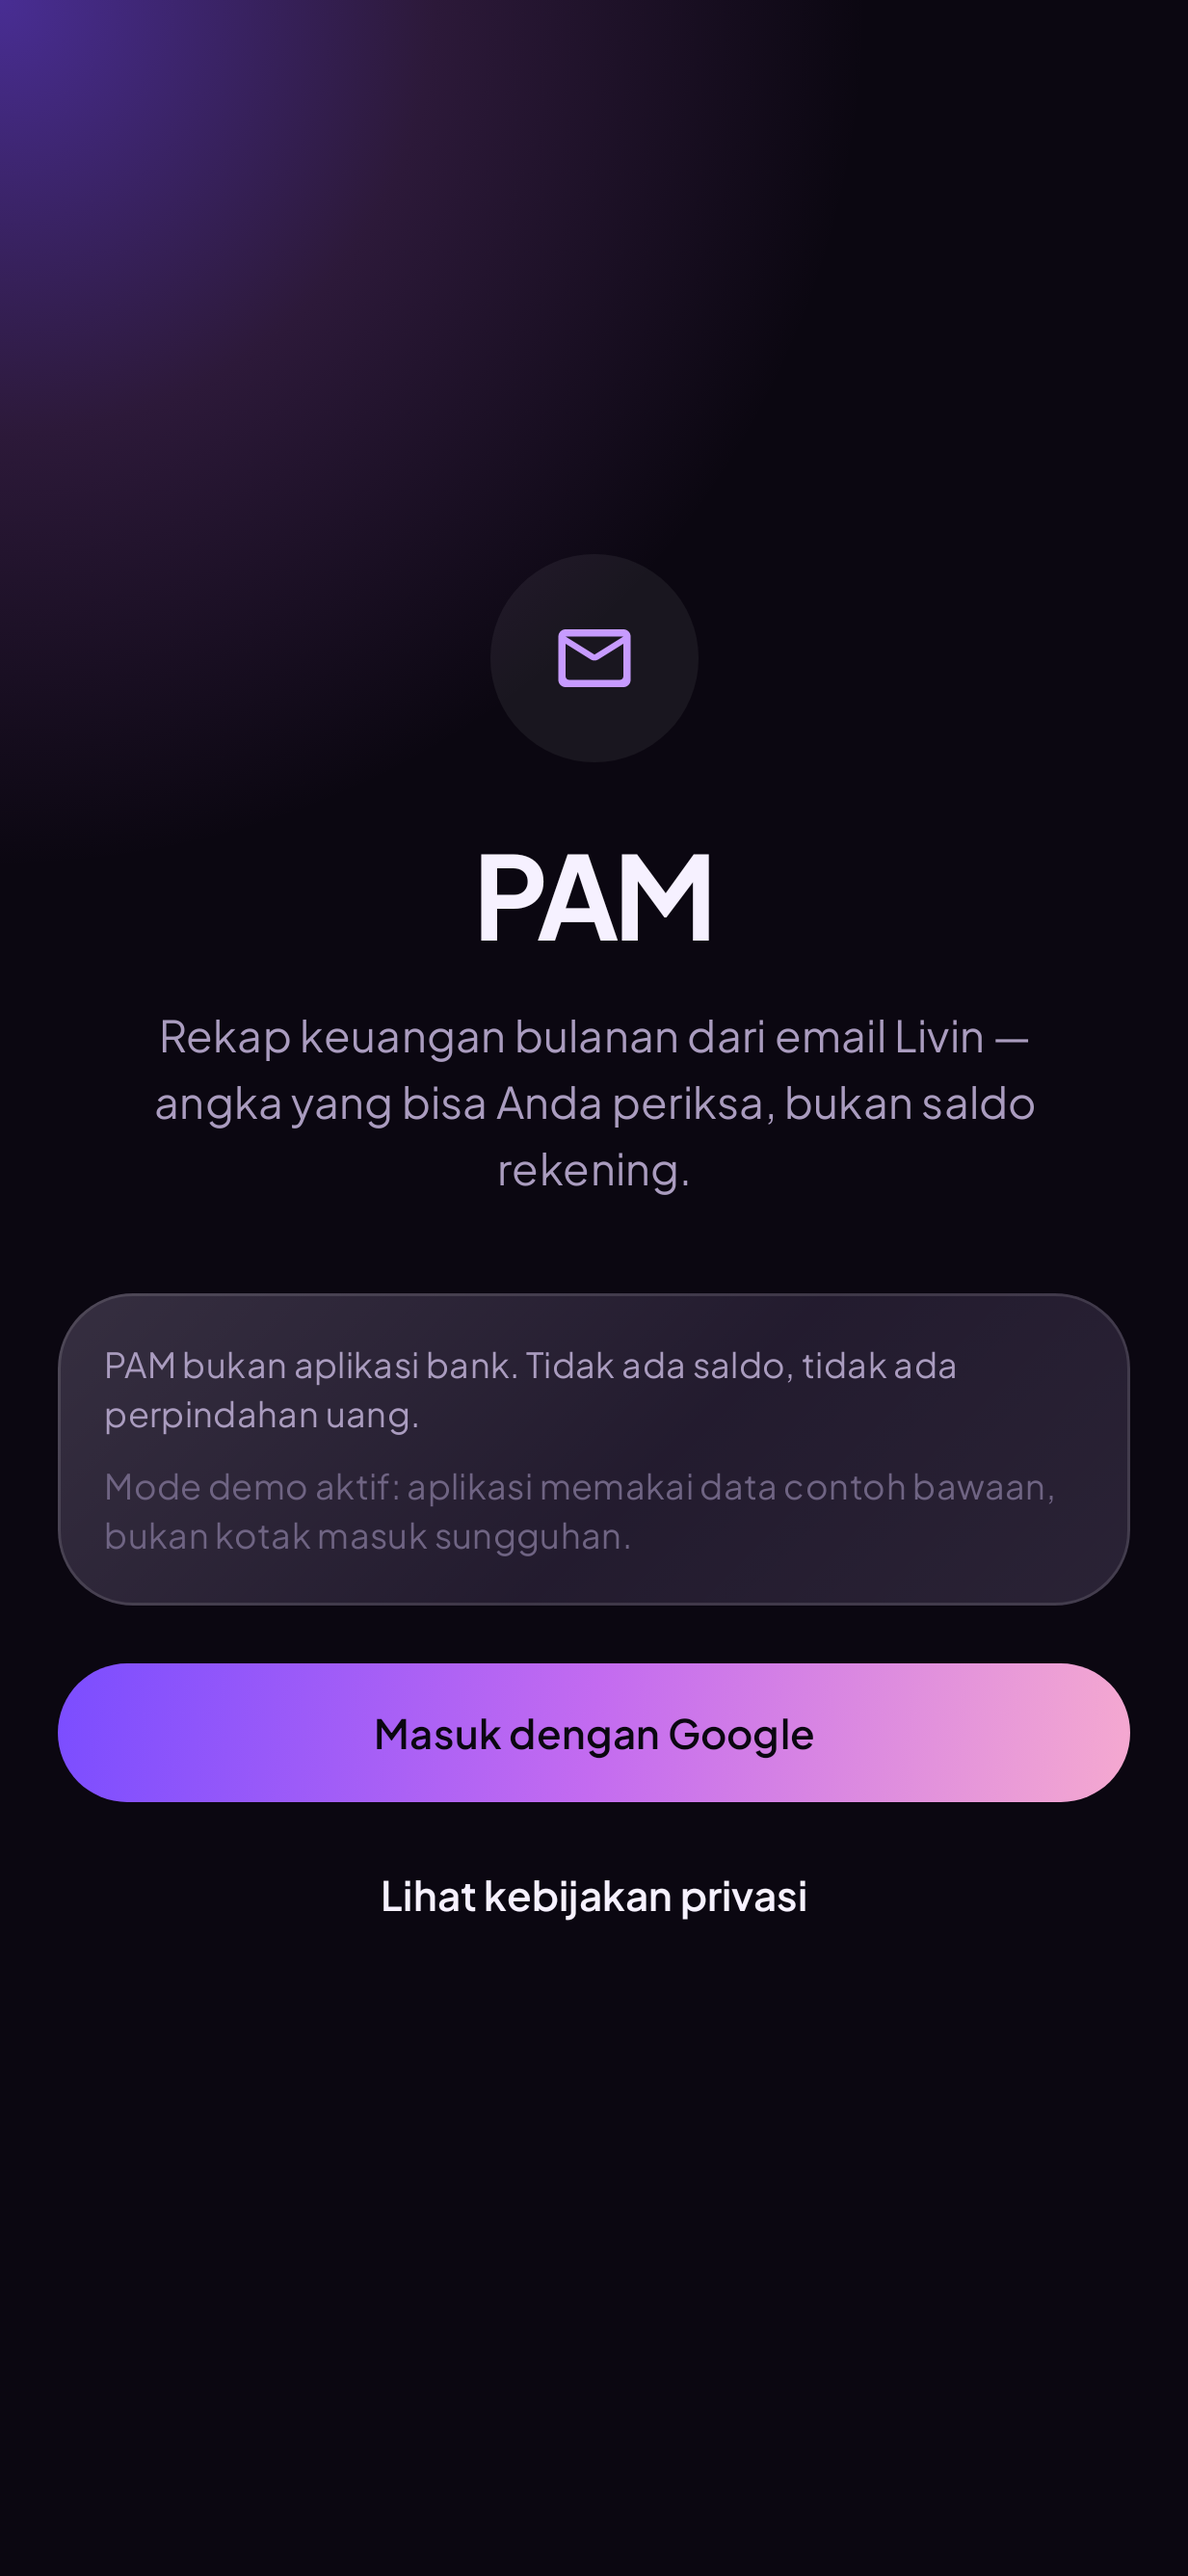
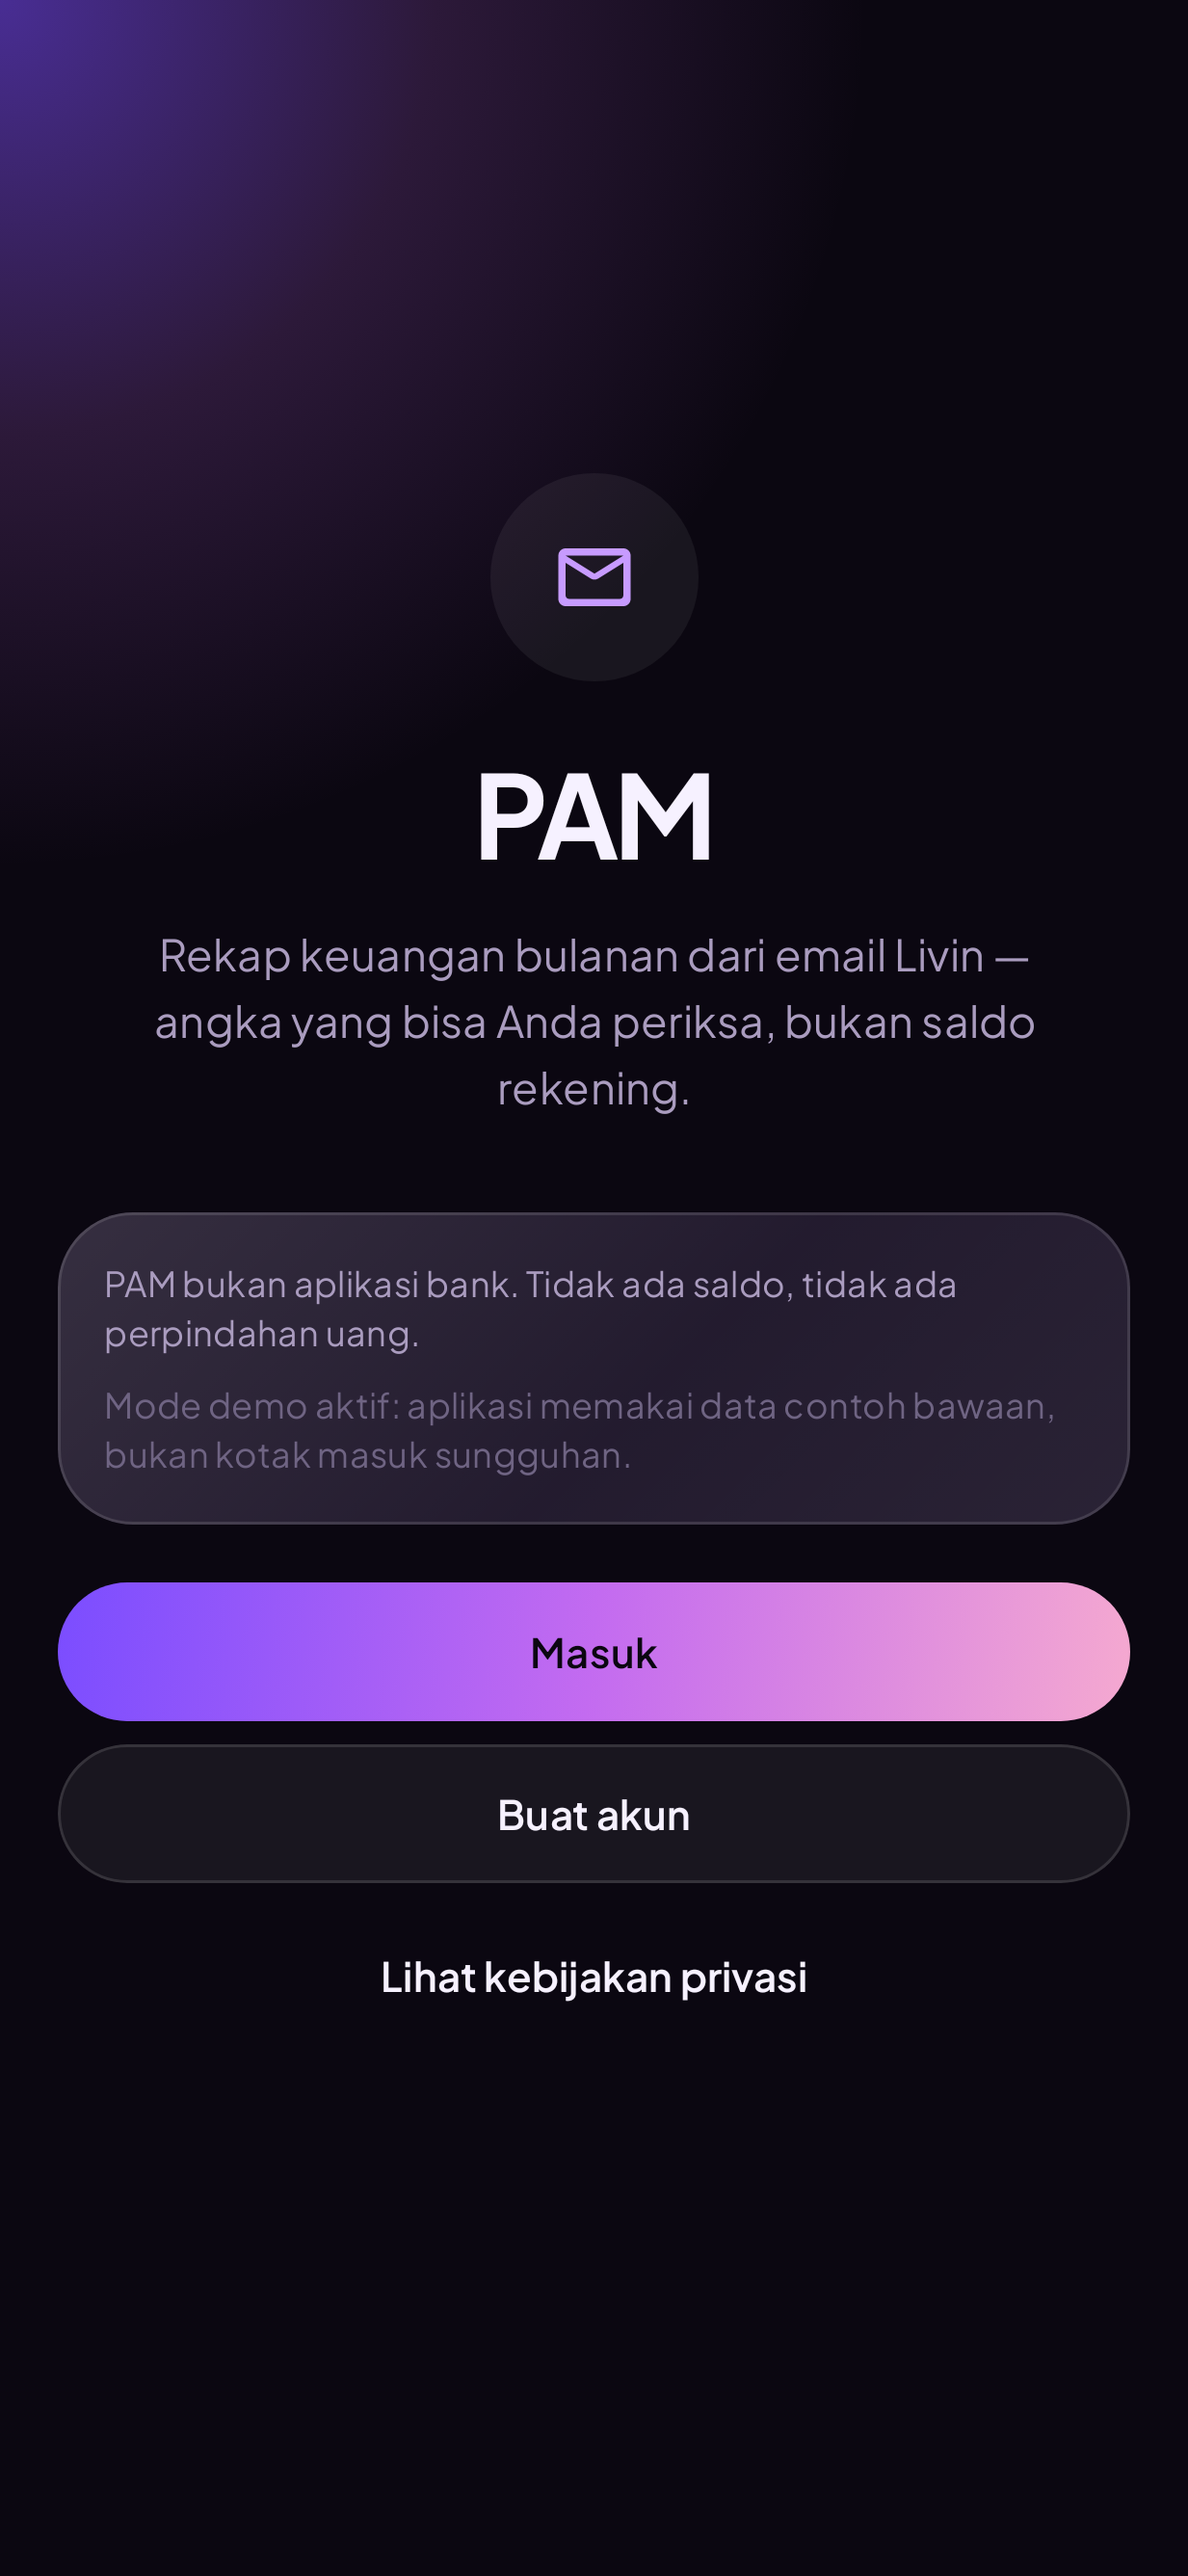
docs: amend CR-001 with the eight gaps Fase 2 exposed
- FR-10 scoped to Fase 3; T02 states which IMAP cases are deferred
- FR-53 defines address-class (/24, /64) and equal timing for unknown emails
- FR-51 adds the password policy and states registration is invite-only
- DR-02 owns the fingerprint HMAC key lifecycle and forbids silent rotation
- FR-56 marked pending Fase 4; OI-15 explains what portability means
- new section 3a maps FR-08 explicitly onto FR-54/FR-55
- refresh the screenshot gallery (19 screens incl. the new account flow)

Changed region(s): [[0.0308, 0.1863, 0.9554, 0.7763]]

diff --git a/docs/09_SRS_CHANGE_v0.3.md b/docs/09_SRS_CHANGE_v0.3.md
@@ -45,6 +45,7 @@ yang terkena, dampak pengguna, konsekuensi integrasi/keamanan, dan pembaruan acc
 |---|---|
 | **Lama** | memblokir retrieval bila OAuth Google belum lengkap. |
 | **Baru** | memblokir retrieval bila app password belum tersimpan atau gagal divalidasi. |
+| **Berlaku** | **Fase 3 saja.** Selama Fase 2 mailbox masih fixture (`FixtureGmailSource`), tidak ada retrieval nyata yang perlu diblokir. |
 
 ### FR-11 — query sumber
 | | |
@@ -98,16 +99,27 @@ Digantikan FR-54 dan NFR-14 versi baru.
 
 ---
 
+## 3a. Pemetaan FR-08 → FR-54
+
+FR-54 **adalah pengganti langsung FR-08**, bukan requirement tambahan yang tidak berkaitan:
+
+| Aspek FR-08 yang dihapus | Digantikan oleh |
+|---|---|
+| "obtain short-lived Gmail API access through Google's authorization flow" | FR-54 (app password + validasi IMAP) |
+| "request only `gmail.readonly`" | FR-55 (buka mailbox read-only, tanpa perintah mutasi) — **tapi jaminan least-privilege tingkat kredensial tidak bisa dipulihkan**, lihat OI-13 |
+| "never embed an OAuth client secret" | tidak lagi relevan; tidak ada client secret |
+| "never collect Google passwords" | **dibatalkan** oleh D1 |
+
 ## 4. Requirement baru
 
 | ID | Requirement |
 |---|---|
-| **FR-51** | The system shall authenticate the user with a PAM account (email + password) hashed using a memory-hard KDF (scrypt, N=2^15, r=8, p=1, 16-byte salt). Password and hash shall never be logged. |
+| **FR-51** | The system shall authenticate the user with a PAM account (email + password) hashed using a memory-hard KDF (scrypt, N=2^15, r=8, p=1, 16-byte salt). Passwords shall be 8–200 characters. Registration shall be invite-only, so no separate registration throttle is required. Password, salt and hash shall never be logged. |
 | **FR-52** | The system shall allow the application to operate fully without a backend account, using a local profile and a local session, so offline use is preserved. |
-| **FR-53** | The system shall rate-limit failed account-login attempts to 5 per 15 minutes per email+address-class, and shall not disclose whether an email exists. |
+| **FR-53** | The system shall rate-limit failed account-login attempts to 5 per 15 minutes per email+address-class, where address-class is IPv4 `/24` and IPv6 `/64` behind a trusted proxy header, and shall not disclose whether an email exists. Both real and unknown emails shall take the same time to reject. |
 | **FR-54** | The system shall obtain mailbox credentials only from a user-entered Gmail app password, validate them with an IMAP login before storing, wrap them with an Android Keystore key, and clear them on sign out or disconnect. |
 | **FR-55** | The system shall open the mailbox read-only and issue no IMAP command that mutates message or folder state. |
-| **FR-56** | The system shall store consented monthly aggregates and reports in a managed cloud database, encrypted at rest and at field level, while transaction-level rows remain on the device. |
+| **FR-56** | The system shall store consented monthly aggregates and reports in a managed cloud database, encrypted at rest and at field level, while transaction-level rows remain on the device. **Pending Fase 4** — Fase 2 belum menyentuh storage. |
 
 ---
 
@@ -117,7 +129,7 @@ Digantikan FR-54 dan NFR-14 versi baru.
 | | |
 |---|---|
 | **Lama** | fingerprint dari Gmail message ID; sumber "Gmail body/header". |
-| **Baru** | fingerprint dari HMAC(`X-GM-MSGID` + fields); sumber "IMAP body". Larangan menyimpan raw identifier tetap: `X-GM-MSGID` **tidak** disimpan, hanya turunan HMAC-nya. |
+| **Baru** | fingerprint dari HMAC(`X-GM-MSGID` + fields); sumber "IMAP body". Larangan menyimpan raw identifier tetap: `X-GM-MSGID` **tidak** disimpan, hanya turunan HMAC-nya. Kunci HMAC per-pengguna dibangkitkan sekali, dibungkus kunci Android Keystore (pola yang sama dengan passphrase SQLCipher), dan dihapus saat workspace dihapus. Rotasi kunci mengubah fingerprint sehingga baris lama tidak lagi cocok — karena itu rotasi dilarang tanpa migrasi ulang. |
 | **Tidak berubah** | larangan menyimpan body, header penuh, PAN, terminal ID, lampiran. |
 
 ---
@@ -157,7 +169,7 @@ Ini penting: alasan memilih opsi Hybrid adalah supaya requirement privasi tetap 
 | Suite | Perubahan |
 |---|---|
 | **T01** Identity & consent | tambah: registrasi/login/logout, scrypt, rate limit, akun lokal tanpa backend |
-| **T02** Google authorization | **diganti seluruhnya** menjadi *IMAP authorization*: login valid, app password salah, app password dicabut, TLS wajib, kredensial tidak ada di log/prefs |
+| **T02** Google authorization | **diganti** menjadi *IMAP authorization*: login valid, app password salah, app password dicabut, TLS wajib, kredensial tidak ada di log/prefs. **Fase 2 hanya menutup kasus "tidak ada kredensial"; empat kasus IMAP lainnya menunggu Fase 3.** |
 | **T03** Livin source validation | fixture yang sama; ditambah kasus "app password hanya-baca" dan X-GM-RAW search |
 | **T04** Import integrity | sumber pesan via IMAP; `X-GM-MSGID` HMAC; batching UID |
 | **T08** Privacy & operations | ditambah: isi database cloud tidak memuat plaintext transaksi |
@@ -172,7 +184,7 @@ AC01, AC02, AC03 harus ditulis ulang mengikuti alur baru.
 |---|---|---|---|
 | **OI-13** | Risiko App Password (akses kirim, kredensial panjang) **diterima**; mitigasi FR-54/FR-55 wajib diverifikasi | owner + security reviewer | G2 |
 | **OI-14** | Google dapat menghentikan App Password kapan saja; rencana keluar: kembali ke OAuth bila perlu | Android lead | G3 |
-| **OI-15** | Turso free tier: kuota, backup, dan jalur pindah ke Postgres | backend lead | G2 |
+| **OI-15** | Turso free tier: kuota, backup, dan jalur pindah ke Postgres. "Portabel" berarti **dialek SQL tetap kompatibel** dan hanya driver klien yang diganti di balik lapisan store; migrasi ke Postgres bukan sekadar tukar driver karena tipe dan klausa `ON CONFLICT` berbeda | backend lead | G2 |
 | **OI-16** | Pengguna tanpa 2FA tidak bisa memakai fitur import email; harus dijelaskan di panduan | owner | G2 |
 
 ---
@@ -184,6 +196,20 @@ AC01, AC02, AC03 harus ditulis ulang mengikuti alur baru.
 - `docs/05_REAL_GOOGLE_SETUP.md` menjadi **usang**; digantikan panduan App Password.
 
 ---
+
+## 10a. Amandemen setelah implementasi Fase 2
+
+Delapan klarifikasi ditambahkan setelah Fase 2 dikerjakan, semuanya ditemukan oleh SE saat
+menerjemahkan change record ini menjadi kode:
+
+1. FR-10 ditandai berlaku Fase 3 saja.
+2. T02 menyatakan empat kasus IMAP ditunda ke Fase 3.
+3. FR-53 mendefinisikan address-class (IPv4 `/24`, IPv6 `/64`) dan kesetaraan waktu respons.
+4. FR-51 menambahkan kebijakan panjang password dan sifat invite-only registrasi.
+5. DR-02 menetapkan siklus hidup kunci HMAC fingerprint.
+6. FR-56 ditandai *pending Fase 4*.
+7. OI-15 menjelaskan arti portabilitas dan mengapa pindah ke Postgres bukan tukar driver.
+8. Pemetaan eksplisit FR-08 → FR-54/FR-55 ditambahkan di §3a.
 
 ## 11. Sign-off
 

diff --git a/docs/05_REAL_GOOGLE_SETUP.md b/docs/05_REAL_GOOGLE_SETUP.md
@@ -1,3 +1,13 @@
+> ## ⚠ DOKUMEN INI SUDAH DIGANTIKAN (20 Nov 2026)
+>
+> Owner memutuskan proyek **lepas penuh dari Google Cloud Platform**: Gmail dibaca lewat
+> **IMAP + App Password**, dan identitas memakai **akun PAM** (email + password), bukan Google
+> Sign-In. Lihat [`08_ROADMAP.md`](08_ROADMAP.md) dan
+> [`09_SRS_CHANGE_v0.3.md`](09_SRS_CHANGE_v0.3.md).
+>
+> Dokumen ini disimpan hanya sebagai **referensi historis** — berguna kalau suatu saat OAuth
+> dibutuhkan lagi (mis. Google menghentikan App Password, OI-14). **Jangan diikuti lagi.**
+
 # Menyiapkan Google sungguhan untuk PAM
 
 Dokumen ini adalah daftar lengkap hal yang **harus Anda siapkan** sebelum aplikasi bisa keluar
